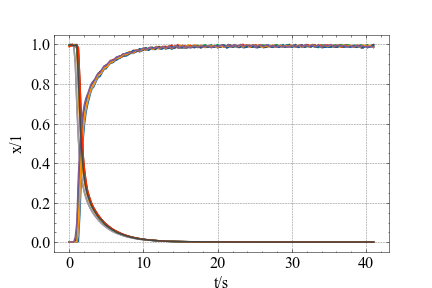
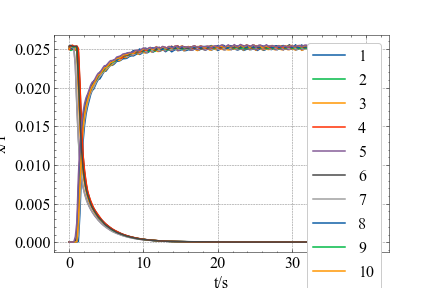
185

diff --git a/Experiments/Preliminary/2_nd_Layer_exp/0001/H_185/Processing_185_C1.py b/Experiments/Preliminary/2_nd_Layer_exp/0001/H_185/Processing_185_C1.py
@@ -18,14 +18,14 @@ def process_data(file_num):
     t_evel = np.linspace(t_b, t_n, 200)
     t_pretty = t_evel - t_b
     x_evel_1 = f(t_evel)
-    x_evel_2=(x_evel_1/22.4)*1000
-    x_evel_2/= x_evel_2.max()
-    x_evel=x_evel_2
+    # x_evel_2=(x_evel_1/22.4)*1000
+    # x_evel_2/= x_evel_2.max()
+    x_evel=x_evel_1
     print(t_evel)
     
 
-    #np.save(PWD / f"TOA_MGA_20231013_007_{file_num:06d}_t_processed_norm_1.npy", t_pretty)
-    #np.save(PWD / f"TOA_MGA_20231013_007_{file_num:06d}_x_processed_norm_1.npy", x_evel)
+    np.save(PWD / f"TOA_MGA_20231013_007_{file_num:06d}_t_processed_norm_reg.npy", t_pretty)
+    np.save(PWD / f"TOA_MGA_20231013_007_{file_num:06d}_x_processed_norm_reg.npy", x_evel)
 
     plt.rcParams.update({
         'font.family': 'Times New Roman',
@@ -48,10 +48,11 @@ def main():
         process_data(file_num)
 
     # Show the legend and plot
-    #plt.legend()
+    plt.legend()
     plt.xlabel("t/s")
     plt.ylabel("x/1")
     plt.savefig("s_007_noice.png")
+    plt.xlim(0, 5)
     #plt.savefig("s_007_max.png")
     plt.show()
 

diff --git a/Experiments/Preliminary/2_nd_Layer_exp/0001/H_135/Processing_135_C1.py b/Experiments/Preliminary/2_nd_Layer_exp/0001/H_135/Processing_135_C1.py
@@ -21,20 +21,20 @@ def process_data(file_num):
     t_end_2=t[-71]
     t_end = t[-1]
     t_start = t_end - 41
-    # print(t_end)
-    # print(t_start)
-    # print(t_end_2)
-    t_evel = np.linspace(t_start, t_end, 200)
+    print(t_end)
+    print(t_start)
+    print(t_end_2)
+    t_evel = np.linspace(t_start, t_end_2, 200)
     t_pretty = t_evel - t_start
     x_evel_1 = f(t_evel)
     x_evel_2=(x_evel_1/22.4)*1000
     x_evel_2/= x_evel_2.max()
     x_evel=x_evel_2
-    print(t_evel)
+    print(x_evel)
 
     # Save processed data
-    np.save(PWD / f"TOA_MGA_20231020_010_{file_num:06d}_t_processed_2nd_Layer_conc_norm_tevel.npy", t_pretty)
-    np.save(PWD / f"TOA_MGA_20231020_010_{file_num:06d}_x_processed_2nd_Layer_conc_norm_tevel.npy", x_evel)
+    np.save(PWD / f"TOA_MGA_20231020_010_{file_num:06d}_t_processed_2nd_Layer_conc_norm.npy", t_pretty)
+    np.save(PWD / f"TOA_MGA_20231020_010_{file_num:06d}_x_processed_2nd_Layer_conc_norm.npy", x_evel)
 
     # Plot results
     plt.plot(t_pretty, x_evel, label=file_num)
